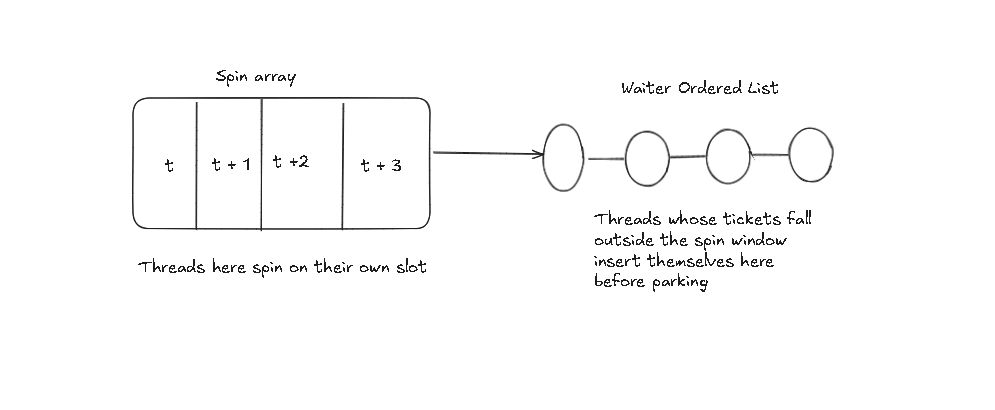
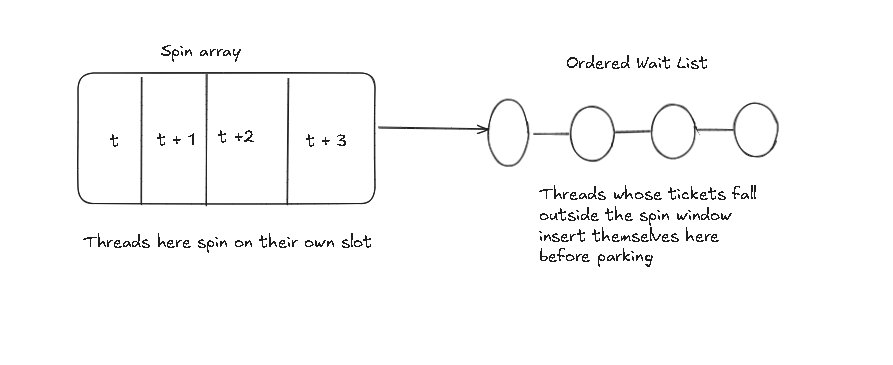
minor: some updates to relay lock post

diff --git a/content/concurrency/Relay Lock.md b/content/concurrency/Relay Lock.md
@@ -12,18 +12,23 @@ The idea is pretty simple. If I know which thread is going to acquire the lock s
 
 
 ## How does it work?
-To start with, there are three pieces to `RelayLock`: tickets, a spin array, and an ordered wait list.
+To start with, there are three pieces to `RelayLock`: a ticket lock, a spin array, and a concurrent ordered wait list.
 
-Tickets provide a simple way for the lock to maintain fifo ordering between threads. 
-A ticket based design in its simplest form contains two variables, `ticket` and `nowServing`, where `nowServing` allows threads to identify the ticket entitled to acquire the lock. 
+A ticket lock maintains FIFO order and mutual exclusion using two variables: `ticket` and `nowServing`. Threads atomically claim a ticket when they arrive and wait until `nowServing` matches their ticket.
 
-However, having every waiting thread spin on `nowServing` would mean they all observe the same memory location being updated on every handoff, even when they're nowhere near acquiring the lock. Instead, the spin array gives each thread a slot associated with its ticket to spin on, so only the thread being handed the lock needs to observe a change.
+There's one problem here though: everyone spins on `nowServing`.
+
+This means every handoff invalidates the same cache line, even for threads that are nowhere near acquiring the lock, creating unneccessary memory traffic.
+
+The spin array avoids this by giving each thread, determined by its ticket, its own slot to spin on. Now, a handoff only needs to update the slot belonging to the next thread, rather than making every waiter spin on the same shared variable.
 
 ---
 
 **So what about threads whose tickets fall outside the spin window?** 
 
-This is where the ordered wait list comes in. In short, it maps threads who fall outside the spin window to their tickets. It then allows the previous lock holder to find a waiter mapped to a ticket.
+This is where the ordered wait list comes in. It keeps track of threads outside the spin window and their corresponding tickets, allowing the previous lock holder to find a waiter mapped to a ticket after.
+
+I used a variant of the Harris-Michael linked list for this. Though it doesn't have to be a linked list; a concurrent hashmap would work as well.
 
 Together, both structures would look something like this.
 ![Relay Lock Image](../images/relay-lock.png)
